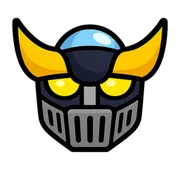
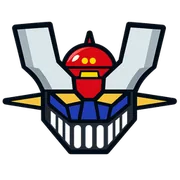
Mazinger Z from reference; dark tile background
Claude-Session: https://claude.ai/code/session_019QwctBLnb4UTXMJBnbargq

diff --git a/index.html b/index.html
@@ -41,7 +41,7 @@
   --warn: #C77F00;
   --bad: #C03A2A;
   --scrim: rgba(6, 22, 26, 0.6);
-  --t-wheel: #E34234; --t-auto: #1E88C8; --t-arm: #F28C28; --t-iarm: #474C55; --t-legs: #F2C230; --t-tool: #8E3A9E; --t-hum: #D9DDE1; --t-floor: #3A9D5D; --t-made: #27407A; --t-union: #800020; --t-term: #5A5F66; --t-gundam: #2F5FB3; --t-eva: #7CC63E; --t-tf: #B5262B; --t-mgodz: #78909C; --t-mazinger: #B0BEC5; --t-grendizer: #7E57C2; --t-taekwonv: #0D47A1; --t-korea: #9C7A3C;
+  --t-wheel: #E34234; --t-auto: #1E88C8; --t-arm: #F28C28; --t-iarm: #474C55; --t-legs: #F2C230; --t-tool: #8E3A9E; --t-hum: #D9DDE1; --t-floor: #3A9D5D; --t-made: #27407A; --t-union: #800020; --t-term: #5A5F66; --t-gundam: #2F5FB3; --t-eva: #7CC63E; --t-tf: #B5262B; --t-mgodz: #78909C; --t-mazinger: #37474F; --t-grendizer: #7E57C2; --t-taekwonv: #0D47A1; --t-korea: #9C7A3C;
   --t-ink-dark: #2B2118; --t-ink-light: #FFFFFF;
   --p-1: #1E88C8; --p-2: #F2C230; --p-3: #E34234; --p-4: #800020;
   --font-title: 'Rye', 'Georgia', serif;
@@ -2078,7 +2078,7 @@ const faceHTML = (e, who = 'suit') => FACE_ART[who][e] || FACE_ART.suit[e] || e;
 // 같은 그림이 여러 개 있어도 박자가 겹치지 않게 시작점을 흩뜨림
 // 그림을 다시 그려도 폰에 남은 옛 그림이 보이지 않게 주소에 버전을 붙임
 // 파일마다 내용이 바뀔 때만 새로 받도록 파일 해시를 붙임 (빌드할 때 채움)
-const ART_HASH = {"tile-gundam-a.png": "41a00219", "ind-school-a.png": "1b0fc977", "robot-cobot-cook-b.png": "3f739fa6", "tile-tool-a.png": "f174149f", "tile-made-a.png": "d557ba97", "ind-training-b.png": "0efc1d0b", "robot-qarm-a.png": "901f7afc", "tile-legs-b.png": "c0299b41", "tile-union-b.png": "b3a03a42", "tile-mgodz-b.png": "64821f9c", "robot-indus-b.png": "4a7cabef", "face-cook-frown.png": "e01a4907", "face-cook-neutral.png": "71441525", "ind-battery-b.png": "6e2bd18d", "ind-fire-a.png": "a71484d3", "face-trump-neutral.png": "5aecac90", "tile-legs-a.png": "2faadad6", "face-worker-angry.png": "eb6b88ed", "ind-steel-a.png": "0f070238", "face-suitf-delight.png": "d729900f", "tile-iarm-a.png": "fc127d92", "ind-steel-b.png": "e122612f", "ind-defense-b.png": "5aa959f1", "face-cook-angry.png": "50c65318", "ind-port-b.png": "6f5dc395", "tile-tf-a.png": "d2bc0939", "ind-factory-a.png": "909659fd", "tile-grendizer-b.png": "c84e6170", "tile-term-b.png": "fa8e5b3f", "face-neutral.png": "a9a959b5", "tile-wheel-a.png": "9e98ebac", "face-cook-smile.png": "be9219e0", "robot-indus-a.png": "ba4c70bc", "tile-korea-b.png": "ebe1008b", "face-trump-tear.png": "21d22245", "tile-auto-b.png": "bb58686e", "ind-material-b.png": "a8f27197", "tile-korea-a.png": "d1987f19", "tile-union-a.png": "d48507d4", "ind-auto-a.png": "9a8abf4f", "tile-taekwonv-b.png": "0c7df26c", "face-frown.png": "26865767", "robot-centaur-a.png": "a9e1e03b", "tile-auto-a.png": "e7100d25", "robot-cobot-cook-a.png": "2acb022c", "face-worker-tear.png": "940dcfc3", "ind-autoparts-b.png": "a5dbd76a", "face-suitf-angry.png": "5b24ceb5", "tile-iarm-b.png": "f0647318", "face-suitf-tear.png": "d0923069", "robot-centaur-b.png": "848f1932", "robot-mm-a.png": "e5da97cf", "ind-defense-a.png": "23a0651c", "robot-quad-a.png": "1e1384cf", "ind-autoparts-a.png": "26dcf7ce", "tile-eva-b.png": "b64d5546", "face-cook-tear.png": "d529800c", "tile-gundam-b.png": "69722c17", "face-trump-delight.png": "e41c1f7d", "face-angry.png": "8542c3c5", "tile-floor-b.png": "7bfb4d09", "face-suitf-smile.png": "2bfa949d", "ind-material-a.png": "2c67685e", "tile-mazinger-a.png": "2357f3bd", "tile-term-a.png": "f86a988f", "tile-eva-a.png": "48055f29", "tile-hum-a.png": "cdc85433", "ind-port-a.png": "0e5340b9", "ind-police-a.png": "717025fa", "wheel-tilt-ref.png": "4a1e31a2", "robot-cobot-a.png": "bb066d5e", "tile-mazinger-b.png": "ec1567b3", "face-trump-angry.png": "6fc0cf6d", "tile-wheel-b.png": "df5d2104", "indus-ref.png": "2bfe4680", "face-worker-neutral.png": "f4f1ff96", "robot-amr-a.png": "21455470", "face-delight.png": "4b63238d", "face-trump-frown.png": "4102f723", "robot-mm-b.png": "41cc89c7", "ind-fire-b.png": "c530534e", "ind-police-b.png": "750b1169", "ind-ess-b.png": "c7fac005", "ind-training-a.png": "a9fe00e5", "tile-mgodz-a.png": "36243d52", "tile-tf-b.png": "23f3efda", "ind-aircraft-a.png": "53a6b218", "ind-school-b.png": "a14af652", "tile-arm-b.png": "6cb9dab3", "tile-taekwonv-a.png": "0c7df26c", "face-worker-delight.png": "56fdb189", "face-worker-smile.png": "7eaefd7c", "robot-quad-b.png": "9b27fe7b", "ind-chicken-a.png": "bd4bc4e3", "face-cook-delight.png": "5ceb20b0", "ind-battery-a.png": "2ead7359", "robot-agv-b.png": "397f8942", "face-tear.png": "7cacead6", "face-suitf-neutral.png": "b29259fe", "ind-auto-b.png": "f90715bb", "ind-shipyard-a.png": "7c43481e", "tile-grendizer-a.png": "d248d9c5", "tile-tool-b.png": "c8c8a23a", "ind-factory-b.png": "b9dfaab4", "ind-chicken-b.png": "b4930a6b", "ind-shipyard-b.png": "098fdbae", "robot-qarm-b.png": "abd9a737", "tile-arm-a.png": "cd420a51", "tile-made-b.png": "7077aabd", "tile-floor-a.png": "14074a30", "robot-cobot-weld-a.png": "da53987b", "robot-agv-a.png": "ee67b65c", "ind-logistics-b.png": "9c5aeeca", "face-smile.png": "786eeb95", "face-worker-frown.png": "0f8d8086", "robot-cobot-weld-b.png": "a9e69108", "robot-amr-b.png": "09f47fab", "tile-hum-b.png": "01ca7c8b", "ind-ess-a.png": "83fff111", "face-suitf-frown.png": "1236f440", "ind-aircraft-b.png": "6afa5f2a", "face-trump-smile.png": "03674df8", "robot-cobot-b.png": "7ea58bc1", "ind-logistics-a.png": "b1b04f38"};
+const ART_HASH = {"tile-gundam-a.png": "41a00219", "ind-school-a.png": "1b0fc977", "robot-cobot-cook-b.png": "3f739fa6", "tile-tool-a.png": "f174149f", "tile-made-a.png": "d557ba97", "ind-training-b.png": "0efc1d0b", "robot-qarm-a.png": "901f7afc", "tile-legs-b.png": "c0299b41", "tile-union-b.png": "b3a03a42", "tile-mgodz-b.png": "64821f9c", "robot-indus-b.png": "4a7cabef", "face-cook-frown.png": "e01a4907", "face-cook-neutral.png": "71441525", "ind-battery-b.png": "6e2bd18d", "ind-fire-a.png": "a71484d3", "face-trump-neutral.png": "5aecac90", "tile-legs-a.png": "2faadad6", "face-worker-angry.png": "eb6b88ed", "ind-steel-a.png": "0f070238", "face-suitf-delight.png": "d729900f", "tile-iarm-a.png": "fc127d92", "ind-steel-b.png": "e122612f", "ind-defense-b.png": "5aa959f1", "face-cook-angry.png": "50c65318", "ind-port-b.png": "6f5dc395", "tile-tf-a.png": "d2bc0939", "ind-factory-a.png": "909659fd", "tile-grendizer-b.png": "c84e6170", "tile-term-b.png": "fa8e5b3f", "face-neutral.png": "a9a959b5", "tile-wheel-a.png": "9e98ebac", "face-cook-smile.png": "be9219e0", "robot-indus-a.png": "ba4c70bc", "tile-korea-b.png": "ebe1008b", "face-trump-tear.png": "21d22245", "tile-auto-b.png": "bb58686e", "ind-material-b.png": "a8f27197", "tile-korea-a.png": "d1987f19", "tile-union-a.png": "d48507d4", "ind-auto-a.png": "9a8abf4f", "tile-taekwonv-b.png": "0c7df26c", "face-frown.png": "26865767", "robot-centaur-a.png": "a9e1e03b", "tile-auto-a.png": "e7100d25", "robot-cobot-cook-a.png": "2acb022c", "face-worker-tear.png": "940dcfc3", "ind-autoparts-b.png": "a5dbd76a", "face-suitf-angry.png": "5b24ceb5", "tile-iarm-b.png": "f0647318", "face-suitf-tear.png": "d0923069", "robot-centaur-b.png": "848f1932", "robot-mm-a.png": "e5da97cf", "ind-defense-a.png": "23a0651c", "robot-quad-a.png": "1e1384cf", "ind-autoparts-a.png": "26dcf7ce", "tile-eva-b.png": "b64d5546", "face-cook-tear.png": "d529800c", "tile-gundam-b.png": "69722c17", "face-trump-delight.png": "e41c1f7d", "face-angry.png": "8542c3c5", "tile-floor-b.png": "7bfb4d09", "face-suitf-smile.png": "2bfa949d", "ind-material-a.png": "2c67685e", "tile-mazinger-a.png": "e80171dc", "tile-term-a.png": "f86a988f", "tile-eva-a.png": "48055f29", "tile-hum-a.png": "cdc85433", "ind-port-a.png": "0e5340b9", "ind-police-a.png": "717025fa", "wheel-tilt-ref.png": "4a1e31a2", "robot-cobot-a.png": "bb066d5e", "tile-mazinger-b.png": "6bc89bc9", "face-trump-angry.png": "6fc0cf6d", "tile-wheel-b.png": "df5d2104", "indus-ref.png": "2bfe4680", "face-worker-neutral.png": "f4f1ff96", "robot-amr-a.png": "21455470", "face-delight.png": "4b63238d", "face-trump-frown.png": "4102f723", "robot-mm-b.png": "41cc89c7", "ind-fire-b.png": "c530534e", "ind-police-b.png": "750b1169", "ind-ess-b.png": "c7fac005", "ind-training-a.png": "a9fe00e5", "tile-mgodz-a.png": "36243d52", "tile-tf-b.png": "23f3efda", "ind-aircraft-a.png": "53a6b218", "ind-school-b.png": "a14af652", "tile-arm-b.png": "6cb9dab3", "tile-taekwonv-a.png": "0c7df26c", "face-worker-delight.png": "56fdb189", "face-worker-smile.png": "7eaefd7c", "robot-quad-b.png": "9b27fe7b", "ind-chicken-a.png": "bd4bc4e3", "face-cook-delight.png": "5ceb20b0", "ind-battery-a.png": "2ead7359", "robot-agv-b.png": "397f8942", "face-tear.png": "7cacead6", "face-suitf-neutral.png": "b29259fe", "ind-auto-b.png": "f90715bb", "ind-shipyard-a.png": "7c43481e", "tile-grendizer-a.png": "d248d9c5", "tile-tool-b.png": "c8c8a23a", "ind-factory-b.png": "b9dfaab4", "ind-chicken-b.png": "b4930a6b", "ind-shipyard-b.png": "098fdbae", "robot-qarm-b.png": "abd9a737", "tile-arm-a.png": "cd420a51", "tile-made-b.png": "7077aabd", "tile-floor-a.png": "14074a30", "robot-cobot-weld-a.png": "da53987b", "robot-agv-a.png": "ee67b65c", "ind-logistics-b.png": "9c5aeeca", "face-smile.png": "786eeb95", "face-worker-frown.png": "0f8d8086", "robot-cobot-weld-b.png": "a9e69108", "robot-amr-b.png": "09f47fab", "tile-hum-b.png": "01ca7c8b", "ind-ess-a.png": "83fff111", "face-suitf-frown.png": "1236f440", "ind-aircraft-b.png": "6afa5f2a", "face-trump-smile.png": "03674df8", "robot-cobot-b.png": "7ea58bc1", "ind-logistics-a.png": "b1b04f38"};
 // 게임에서는 가벼운 webp(assets/w/)를 씀. 파일 이름은 png와 같고 확장자만 다름
 const av = f => { const n = f.replace('assets/', ''); return `assets/w/${n.replace(/\.png$/, '.webp')}?v=${ART_HASH[n] || '0'}`; };
 // 업종 아이콘(ind-)은 a프레임만, 로봇·부품은 a·b를 번갈아 (팔이 까딱, 다리가 제자리걸음 등)
@@ -2453,7 +2453,7 @@ function banner(text, delay) {
 }
 
 // ───────── 진행 ─────────
-const BUILD_V = '1003-223907';
+const BUILD_V = '1003-224148';
 function loop(t) {
   const dt = Math.min(0.1, (t - (S.last || t)) / 1000);
   S.last = t;
